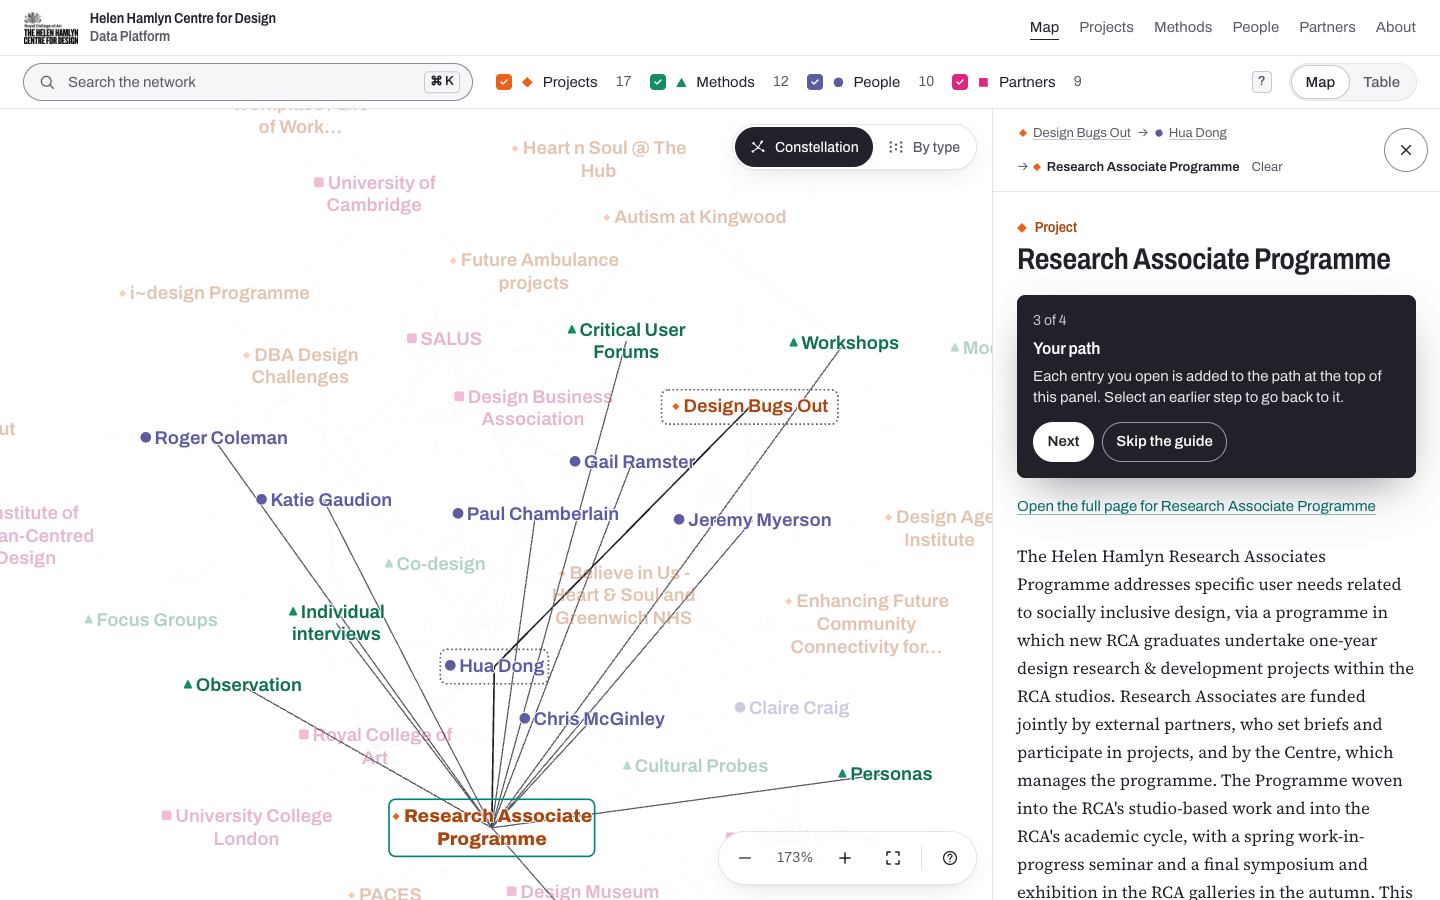
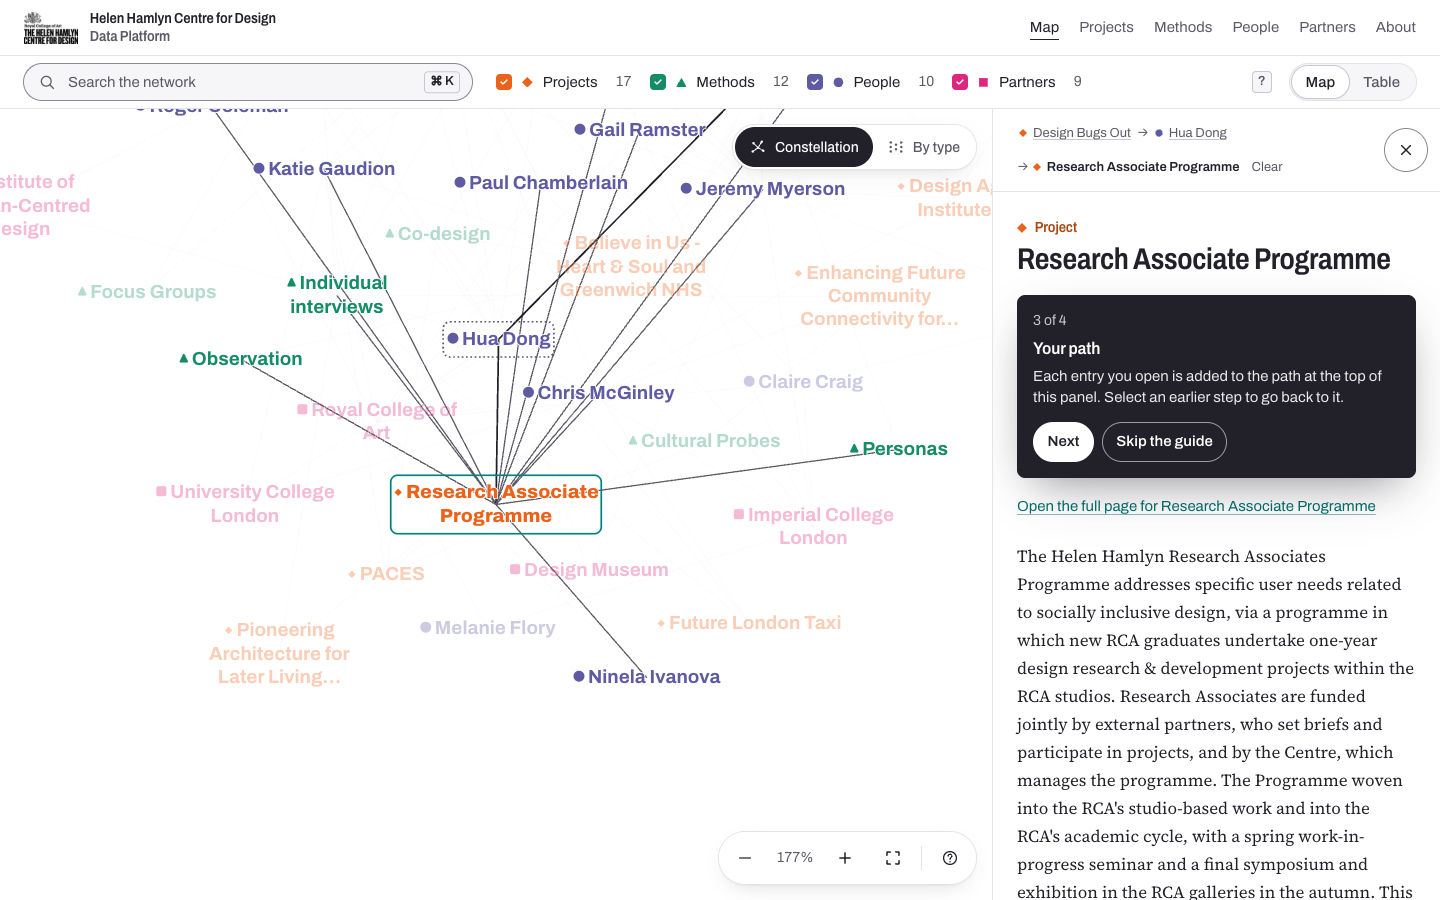
Original brand colours for map names, kept AA as large text
- Map names bold 700 and at least 18.67px on screen use the brand colours;
  zoomed out below that they switch to the darker text variants
- Partners text uses its brand colour (4.53:1); admin error keeps the darker tone on its tint

Claude-Session: https://claude.ai/code/session_014KayvLjfZAn1qfA8mMiKjx

diff --git a/src/components/explore/GraphView.tsx b/src/components/explore/GraphView.tsx
@@ -17,6 +17,7 @@ import {
   starBox,
   wrapLabel,
   STAR_LINE,
+  STAR_FONT,
   type Arrangement,
   type Position,
 } from '@/lib/layout';
@@ -47,6 +48,8 @@ const ARRANGEMENT_LABEL: Record<Arrangement, string> = {
 };
 
 const GLYPH: Record<string, string> = { Projects: '◆', Methods: '▲', People: '●', Partners: '■' };
+/** WCAG large text: 14pt bold. */
+const LARGE_TEXT_PX = 18.67;
 const clamp01 = (v: number) => Math.max(0, Math.min(1, v));
 const labelWidth = (name: string) => shortLabel(name).length * 7.7 + 4;
 /** How much of the constellation label is showing at a given progress towards columns (they crossfade mid-move). */
@@ -213,7 +216,8 @@ export function GraphView() {
   const openingTransform = useCallback(
     (w: number, h: number) => {
       const fit = fitTransform(w, h);
-      const k = Math.max(fit.k, w >= 768 ? 0.84 : 0.82);
+      // 0.86 keeps the 22px names at 18.9px on screen: large text.
+      const k = Math.max(fit.k, 0.86);
       if (k === fit.k) return fit;
       if (w >= 768) {
         return zoomIdentity.translate(w / 2 - (layout.width / 2) * k, h / 2 + 10 - (layout.height / 2) * k).scale(k);
@@ -551,7 +555,14 @@ export function GraphView() {
                 <text
                   className="star-label"
                   transform={scale !== 1 ? `scale(${scale})` : undefined}
-                  style={{ opacity: starOp, fill: `var(--color-${meta.token}-text)` }}
+                  style={{
+                    opacity: starOp,
+                    // The original brand colour whenever the name is large
+                    // text on screen (bold, 18.66px or more, where WCAG AA
+                    // asks for 3:1); the darker text-safe variant when zoomed
+                    // out below that.
+                    fill: STAR_FONT * k * scale >= LARGE_TEXT_PX ? `var(--color-${meta.token})` : `var(--color-${meta.token}-text)`,
+                  }}
                 >
                   {lines.map((line, i) => (
                     <tspan key={i} x={0} y={-(lines.length * STAR_LINE) / 2 + STAR_LINE * (i + 0.74)}>

diff --git a/src/app/globals.css b/src/app/globals.css
@@ -42,7 +42,7 @@
      these darker values are used whenever the colour carries text (≥4.5:1
      on paper, surface and the type's own tint). People's base already passes. */
   --color-people-text: var(--color-people);
-  --color-partners-text: var(--color-partners-hover);
+  --color-partners-text: var(--color-partners); /* the brand colour already passes 4.5:1 (4.53:1) */
   --color-projects-text: #a8470f;
   --color-methods-text: var(--color-methods-hover);
   --color-accent-text: var(--color-accent-hover);
@@ -350,7 +350,7 @@ kbd {
 /* Constellation labels: the name in its type's colour, bold and centred, as in the original platform. */
 .graph-node text.star-label {
   font-size: 22px;
-  font-weight: 640;
+  font-weight: 700;
   letter-spacing: 0;
   text-anchor: middle;
   /* A hairline halo only: enough to keep a crossing line from cutting

diff --git a/scripts/contrast.ts b/scripts/contrast.ts
@@ -69,7 +69,7 @@ const pairs: [fg: string, bg: string, kind: Kind, where: string][] = [
   ['--color-projects-text', '--color-paper', 'text', 'Projects label'],
   ['--color-methods-text', '--color-paper', 'text', 'Methods label and links'],
   ['--color-people-text', '--color-people-tint', 'text', 'People text on its tint'],
-  ['--color-partners-text', '--color-partners-tint', 'text', 'Partners text on its tint'],
+  ['--color-partners-hover', '--color-partners-tint', 'text', 'Admin error text on the partners tint'],
   ['--color-projects-text', '--color-projects-tint', 'text', 'Projects text on its tint'],
   ['--color-methods-text', '--color-methods-tint', 'text', 'Methods text on its tint'],
   // Brand swatches as marks (shapes in lists and in the map; filter checkboxes)

diff --git a/src/app/admin/forms.tsx b/src/app/admin/forms.tsx
@@ -22,7 +22,7 @@ function Feedback({ state }: { state: FormState }) {
   return (
     <div role="status" aria-live="polite" className="min-h-6">
       {state.error && (
-        <p className="rounded-md bg-[var(--color-partners-tint)] px-4 py-3 text-[var(--color-partners-text)]">{state.error}</p>
+        <p className="rounded-md bg-[var(--color-partners-tint)] px-4 py-3 text-[var(--color-partners-hover)]">{state.error}</p>
       )}
       {state.message && (
         <p className="rounded-md bg-[var(--color-methods-tint)] px-4 py-3 text-[var(--color-methods-text)]">{state.message}</p>

diff --git a/README.md b/README.md
@@ -78,7 +78,7 @@ Both share one frame, so switching is a pure movement of the same entries: each 
 
 ## Colours
 
-All colours are CSS custom properties in `src/app/globals.css`. The HHCD brand colours are unchanged from the original: people `#5F5BA3`, partners `#DC2680`, projects `#EB631A`, methods `#148D66`, accent `#00837F`, with their tint, hover and ring variants. The rebuild adds neutrals, a control-border colour and darker `*-text` variants for type set in colour. Run `npm run contrast` after changing any value.
+All colours are CSS custom properties in `src/app/globals.css`. The HHCD brand colours are unchanged from the original: people `#5F5BA3`, partners `#DC2680`, projects `#EB631A`, methods `#148D66`, accent `#00837F`, with their tint, hover and ring variants. The rebuild adds neutrals and a control-border colour. On the map, names are set in the original brand colours, bold and at least 18.67px on screen (WCAG large text, 3:1); if you zoom out below that, they switch to darker `*-text` variants. Small coloured text elsewhere uses those variants for Projects and Methods; People and Partners pass 4.5:1 in their original colours. Run `npm run contrast` after changing any value.
 
 Each entity type also has a shape (people circles, partners squares, projects diamonds, methods triangles), so type is never shown by colour alone.
 
